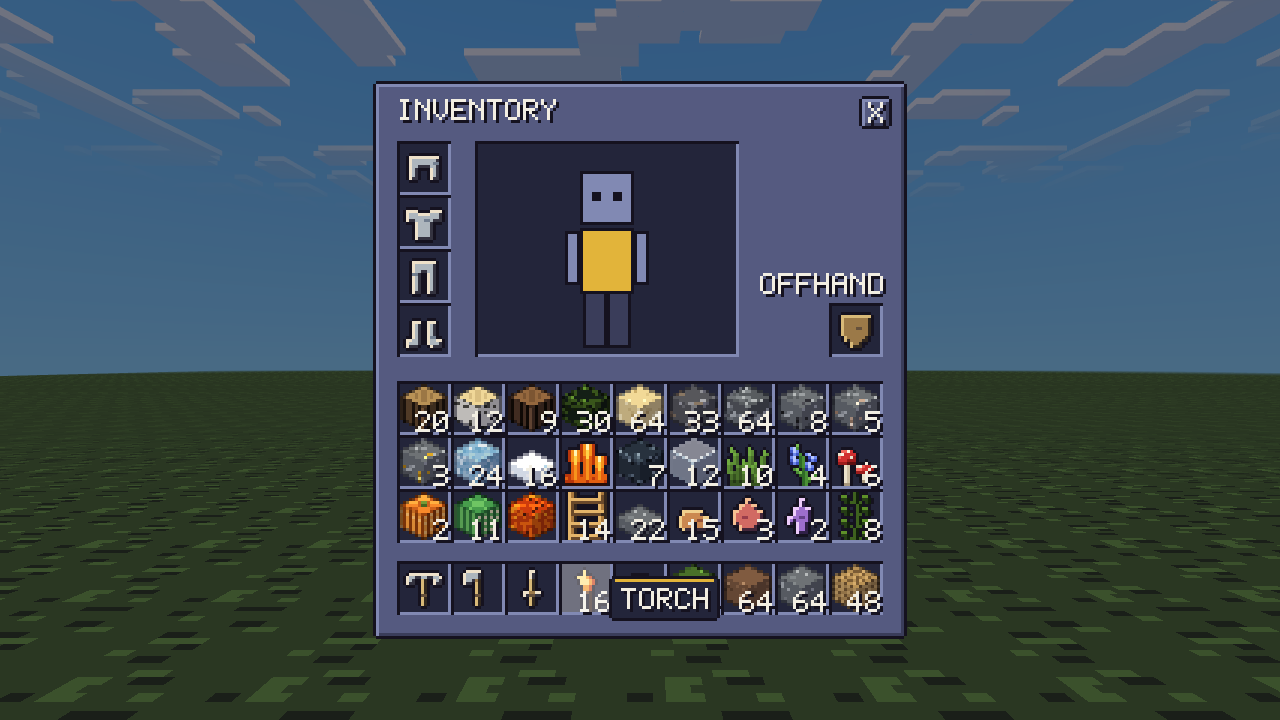
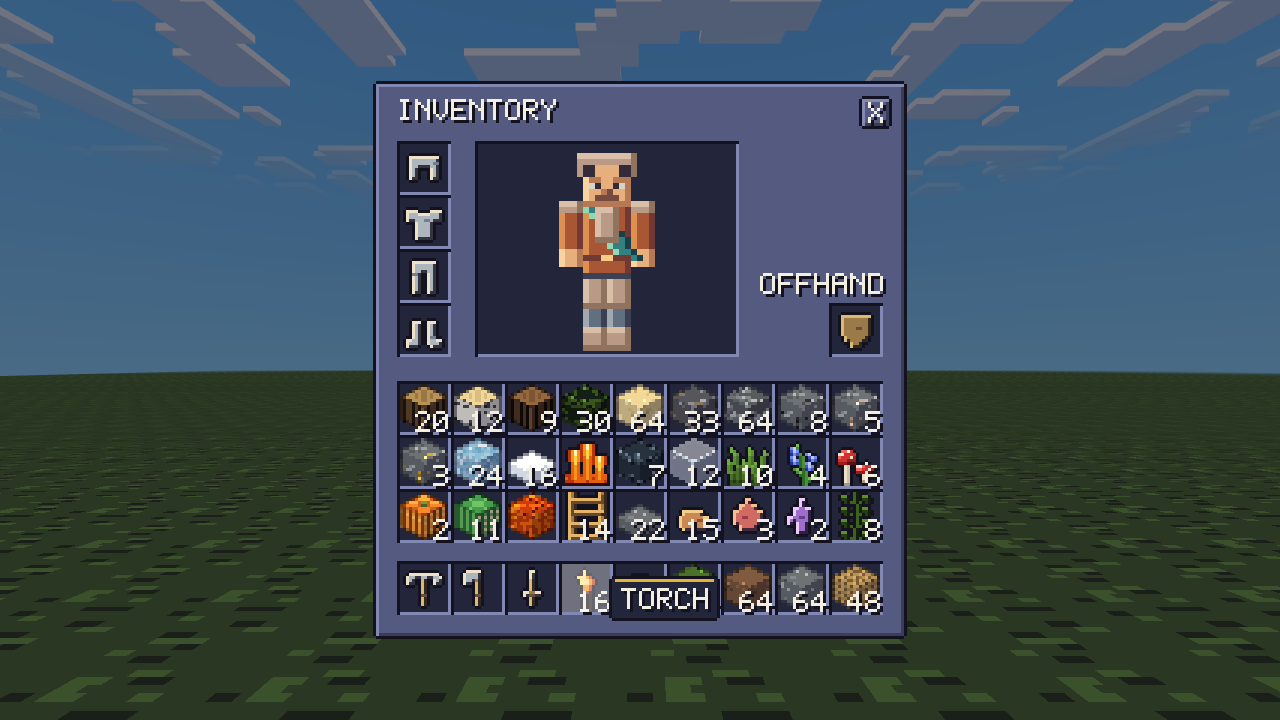
M09b: rework inventory figure with player palettes, face and worn armor
Claude-Session: https://claude.ai/code/session_01HomrBqg9TBAxWGTi8WLfMd

Changed region(s): [[0.4375, 0.2139, 0.5312, 0.4889]]

diff --git a/src/ui/preview-figure.ts b/src/ui/preview-figure.ts
@@ -1,0 +1,152 @@
+import type { Inventory } from '../gameplay/inventory';
+import { PAL_PLAYER_COAT, PAL_PLAYER_HEAD, PAL_PLAYER_LEG } from '../render/textures/player';
+import type { RGBA } from '../render/textures/noise';
+import { PREVIEW_BOX } from './inventory-layout';
+import { fillRect } from './ui-kit';
+
+/** One figure pixel is this many UI pixels, so the face keeps its detail at every integer UI scale. */
+const UNIT = 2;
+
+const css = (c: RGBA): string => `rgb(${c[0]},${c[1]},${c[2]})`;
+const HEAD = PAL_PLAYER_HEAD.map(css);
+const COAT = PAL_PLAYER_COAT.map(css);
+const LEG = PAL_PLAYER_LEG.map(css);
+/** Eye whites reuse the pale end of the trouser ramp. */
+const WHITE = LEG[4]!;
+
+/** Armor ramps (dark, mid, light) taken from the ART.md copper and iron ramps. */
+const ARMOR_RAMPS: Record<string, [string, string, string]> = {
+  copper: ['#8a4b2a', '#b4683a', '#d8874a'],
+  iron: ['#8f735f', '#b89a86', '#d9bea8'],
+};
+/** Every color the figure may draw: the player ramps plus the armor ramps. */
+export const FIGURE_COLORS: ReadonlySet<string> = new Set([
+  ...HEAD,
+  ...COAT,
+  ...LEG,
+  ...Object.values(ARMOR_RAMPS).flat(),
+]);
+const ARMOR_SLOTS = { head: 36, chest: 37, legs: 38, feet: 39 } as const;
+
+function armorRamp(inventory: Inventory, slot: number): [string, string, string] | null {
+  const id = inventory.slots[slot]?.id;
+  if (!id) return null;
+  for (const [material, ramp] of Object.entries(ARMOR_RAMPS))
+    if (id.startsWith(material)) return ramp;
+  return ARMOR_RAMPS.iron!;
+}
+
+/**
+ * The player in the same palettes as the third-person model: swept dark hair, skin ramp, copper
+ * jacket with the sea-green sash, slate trousers. Light comes from the top-left, so every part has
+ * a lit left column and a darker right column. Worn armor is drawn over the matching body part.
+ */
+export function drawPreviewFigure(
+  ctx: CanvasRenderingContext2D,
+  inventory: Inventory,
+  s: number,
+): void {
+  // Origin: horizontal centre of the box, 4 UI pixels below its top edge.
+  const ox = PREVIEW_BOX.x + PREVIEW_BOX.w / 2 - 8 * UNIT;
+  const oy = PREVIEW_BOX.y + 4;
+  const px = (x: number, y: number, w: number, h: number, color: string): void =>
+    fillRect(ctx, ox + x * UNIT, oy + y * UNIT, w * UNIT, h * UNIT, color, s);
+
+  // Legs (4 wide each, 12..) with a lit left column, darker right column and dark boots.
+  for (const lx of [4, 8]) {
+    px(lx, 20, 4, 11, LEG[2]!);
+    px(lx, 20, 1, 11, LEG[3]!);
+    px(lx + 3, 20, 1, 11, LEG[1]!);
+    px(lx, 31, 4, 2, LEG[0]!);
+    px(lx, 31, 1, 1, LEG[1]!);
+  }
+  px(4, 20, 8, 1, LEG[1]!);
+
+  // Arms: sleeves in coat tones, hands in skin tones.
+  for (const ax of [0, 12]) {
+    px(ax, 8, 4, 8, COAT[2]!);
+    px(ax, 8, 1, 8, COAT[3]!);
+    px(ax + 3, 8, 1, 8, COAT[1]!);
+    px(ax, 16, 4, 3, HEAD[3]!);
+    px(ax, 16, 1, 3, HEAD[4]!);
+    px(ax + 3, 16, 1, 3, HEAD[2]!);
+  }
+
+  // Jacket with the sea-green sash running from the left shoulder to the right hip.
+  px(4, 8, 8, 12, COAT[2]!);
+  px(4, 8, 1, 12, COAT[3]!);
+  px(11, 8, 1, 12, COAT[1]!);
+  for (let i = 0; i < 10; i++) {
+    const x = 4 + Math.floor(i * 0.7);
+    px(x, 8 + i, 1, 1, COAT[7]!);
+    px(x + 1, 8 + i, 2, 1, COAT[6]!);
+    px(x + 3, 8 + i, 1, 1, COAT[5]!);
+  }
+  px(4, 17, 8, 1, COAT[1]!);
+  px(7, 17, 2, 1, COAT[4]!);
+
+  // Head: skin, hair, brows, eyes with a pupil and a highlight, nose, mouth, ear shadow.
+  px(4, 0, 8, 8, HEAD[3]!);
+  px(4, 0, 8, 1, HEAD[0]!);
+  px(4, 1, 8, 1, HEAD[0]!);
+  px(4, 2, 2, 2, HEAD[0]!);
+  px(10, 2, 2, 2, HEAD[0]!);
+  px(5, 1, 2, 1, HEAD[1]!);
+  px(4, 4, 1, 4, HEAD[4]!);
+  px(11, 4, 1, 4, HEAD[2]!);
+  px(5, 4, 2, 1, HEAD[2]!);
+  px(9, 4, 2, 1, HEAD[2]!);
+  for (const ex of [5, 9]) {
+    px(ex, 5, 2, 1, WHITE);
+    px(ex + (ex === 5 ? 1 : 0), 5, 1, 1, HEAD[0]!);
+    px(ex + (ex === 5 ? 0 : 1), 5, 1, 1, WHITE);
+  }
+  px(7, 6, 2, 1, HEAD[2]!);
+  px(8, 6, 1, 1, HEAD[1]!);
+  px(6, 7, 4, 1, HEAD[1]!);
+  px(4, 8, 8, 1, HEAD[2]!);
+
+  // Worn armor over each body part.
+  const helmet = armorRamp(inventory, ARMOR_SLOTS.head);
+  if (helmet) {
+    // A cap over the hair that leaves the whole face visible.
+    px(3, 0, 10, 2, helmet[1]);
+    px(3, 0, 10, 1, helmet[2]);
+    px(12, 0, 1, 2, helmet[0]);
+    px(3, 2, 1, 2, helmet[1]);
+    px(12, 2, 1, 2, helmet[0]);
+  }
+  const chest = armorRamp(inventory, ARMOR_SLOTS.chest);
+  if (chest) {
+    // Pauldrons on the shoulders and a breastplate that leaves the sash showing at the sides.
+    for (const ax of [0, 12]) {
+      px(ax, 8, 4, 2, chest[1]);
+      px(ax, 8, 4, 1, chest[2]);
+      px(ax + 3, 8, 1, 2, chest[0]);
+    }
+    px(6, 9, 4, 6, chest[1]);
+    px(6, 9, 4, 1, chest[2]);
+    px(6, 9, 1, 6, chest[2]);
+    px(9, 9, 1, 6, chest[0]);
+    px(6, 14, 4, 1, chest[0]);
+  }
+  const legs = armorRamp(inventory, ARMOR_SLOTS.legs);
+  if (legs) {
+    // Thigh guards.
+    for (const lx of [4, 8]) {
+      px(lx, 21, 4, 5, legs[1]);
+      px(lx, 21, 1, 5, legs[2]);
+      px(lx + 3, 21, 1, 5, legs[0]);
+      px(lx, 25, 4, 1, legs[0]);
+    }
+  }
+  const feet = armorRamp(inventory, ARMOR_SLOTS.feet);
+  if (feet) {
+    for (const lx of [4, 8]) {
+      px(lx, 29, 4, 4, feet[1]);
+      px(lx, 29, 4, 1, feet[2]);
+      px(lx + 3, 29, 1, 4, feet[0]);
+      px(lx, 32, 4, 1, feet[0]);
+    }
+  }
+}

diff --git a/src/ui/inventory-screen.ts b/src/ui/inventory-screen.ts
@@ -1,4 +1,5 @@
 import type { Inventory } from '../gameplay/inventory';
+import { drawPreviewFigure } from './preview-figure';
 import { displayName, drawText } from './pixel-font';
 import type { IconSheet } from './icons';
 import {
@@ -19,7 +20,6 @@ import {
   drawSlot,
   drawSlotHighlight,
   drawTooltip,
-  fillRect,
 } from './ui-kit';
 
 export interface InventoryView {
@@ -45,28 +45,6 @@ function drawIcon(
   if (rect) ctx.drawImage(sheet, rect.x, rect.y, 16, 16, x, y, size, size);
 }
 
-/** A blocky figure in the shared palette, standing in the preview box. */
-function drawPreviewFigure(ctx: CanvasRenderingContext2D, s: number): void {
-  const cx = PREVIEW_BOX.x + PREVIEW_BOX.w / 2;
-  const y = PREVIEW_BOX.y + 10;
-  const parts: Array<[number, number, number, number, string]> = [
-    [-9, 0, 18, 18, UI.outline],
-    [-8, 1, 16, 16, UI.light],
-    [-5, 7, 3, 3, UI.outline],
-    [2, 7, 3, 3, UI.outline],
-    [-9, 19, 18, 22, UI.outline],
-    [-8, 20, 16, 20, UI.accent],
-    [-14, 20, 5, 18, UI.outline],
-    [9, 20, 5, 18, UI.outline],
-    [-13, 21, 3, 16, UI.light],
-    [10, 21, 3, 16, UI.light],
-    [-8, 41, 16, 18, UI.outline],
-    [-7, 41, 6, 17, UI.shade],
-    [1, 41, 6, 17, UI.shade],
-  ];
-  for (const [dx, dy, w, h, color] of parts) fillRect(ctx, cx + dx, y + dy, w, h, color, s);
-}
-
 export function drawInventoryScreen(
   ctx: CanvasRenderingContext2D,
   view: InventoryView,
@@ -90,7 +68,7 @@ export function drawInventoryScreen(
   drawText(ctx, 'OFFHAND', (170 - 41) * s, 64 * s, s, UI.text, UI.outline);
   drawButton(ctx, CLOSE_BUTTON, 'X', s, view.hoverClose);
   drawInset(ctx, PREVIEW_BOX, s);
-  drawPreviewFigure(ctx, s);
+  drawPreviewFigure(ctx, inventory, s);
 
   for (let slot = 0; slot < SLOT_COUNT; slot++) {
     const [x, y] = SLOT_POSITIONS[slot]!;

diff --git a/tests/unit/m09b-ui.test.ts b/tests/unit/m09b-ui.test.ts
@@ -5,6 +5,7 @@ import { displayName, hasGlyph } from '../../src/ui/pixel-font';
 import { UI, uiScaleFor } from '../../src/ui/ui-kit';
 import { computeLayout, slotAt, PANEL_W, PANEL_H, SLOT_COUNT } from '../../src/ui/inventory-layout';
 import { drawInventoryScreen } from '../../src/ui/inventory-screen';
+import { FIGURE_COLORS } from '../../src/ui/preview-figure';
 import type { IconSheet } from '../../src/ui/icons';
 
 describe('M09b UI scale', () => {
@@ -107,7 +108,8 @@ describe('M09b pixel font and palette', () => {
       sheet,
       {} as CanvasImageSource,
     );
-    const palette = new Set<string>(Object.values(UI));
+    // The preview figure draws in the in-game player and armor palettes; everything else is UI.
+    const palette = new Set<string>([...Object.values(UI), ...FIGURE_COLORS]);
     for (const color of colors) expect(palette.has(color), color).toBe(true);
     expect(ctx.imageSmoothingEnabled).toBe(false);
     for (const r of rects) for (const v of r) expect(Number.isInteger(v)).toBe(true);

diff --git a/progress/M09b.md b/progress/M09b.md
@@ -2,7 +2,7 @@
 
 Status: verified (local); GitHub CI on the PR is the final evidence
 Depends on: M09a
-Full verify (this session, Node as installed in the container): typecheck ✓ · lint ✓ · placeholders ✓ · unit 640 passed (84 files) · e2e 87 passed (17.8 m) · console errors 0 · exit 0
+Full verify (this session, Node as installed in the container): typecheck ✓ · lint ✓ · placeholders ✓ · unit 640 passed (84 files) · e2e 87 passed (17.6 m) · console errors 0 · exit 0
 
 ## Acceptance criteria owned
 
@@ -13,10 +13,11 @@ Also covered: E/Esc open and close, input ignored while open, cursor return and 
 
 ## Screenshots (docs/screenshots/M09b/)
 
-- `m09-inventory.png`: opened and viewed. A centred blue-grey beveled panel titled INVENTORY with an X button, over the dimmed game. Left: four armor slots showing iron helmet, chestplate, leggings and boots icons. Centre: a recessed box with a simple blocky figure. Right: OFFHAND label over a slot holding a shield. Below: three rows of nine main slots and a hotbar row, all filled; cube icons show a lighter top and two differently shaded side faces (logs, sand, ores, ice, pumpkin, cactus), and plants, torch, fire and ladder appear as flat outlined sprites. Counts are white with a dark shadow in each slot's lower right. The hovered torch slot is highlighted with a TORCH tooltip. Darker textures (stone, coal) are the least legible cubes.
+- `m09-inventory.png`: opened and viewed. A centred blue-grey beveled panel titled INVENTORY with an X button, over the dimmed game. Left: four armor slots showing iron helmet, chestplate, leggings and boots icons. Centre: a dark recessed box with the player figure in the in-game player palettes: swept dark hair, a skin-tone face lit on the left and shaded on the right with two brows, white-and-pupil eyes, a darker nose and a brown mouth, a copper jacket with the sea-green sash from the left shoulder to the right hip, copper sleeves, skin hands and slate trousers. Worn iron armor shows as a cap, shoulder pauldrons, a small breastplate, thigh guards and boots, leaving the sash visible. Right: OFFHAND label over a slot holding a shield. Below: three rows of nine main slots and a hotbar row, all filled; cube icons show a lighter top and two differently shaded side faces (logs, sand, ores, ice, pumpkin, cactus), and plants, torch, fire and ladder appear as flat outlined sprites. Counts are white with a dark shadow in each slot's lower right. The hovered torch slot is highlighted with a TORCH tooltip. Darker textures (stone, coal) are the least legible cubes.
 
 ## What was built
 
+- `src/ui/preview-figure.ts`: the figure (owner-requested rework after review; `FIGURE_COLORS` lists the colors it may use, and the owner approved extending the palette test in `tests/unit/m09b-ui.test.ts` to allow them).
 - `src/ui/`: `pixel-font.ts` (5×7 bitmap font), `ui-kit.ts` (8-color palette, panels, slots, button, tooltip, integer scale), `icons.ts` (icon sheet), `inventory-layout.ts`, `inventory-screen.ts` (drawing), `ui-manager.ts` (overlay canvas, mouse and key handling, open/close, throws).
 - Debug API `src/debug/api/ui.ts`: `openScreen`, `getScreen`, `uiClickSlot`.
 - Changes to other tasks' code: `InputEngine` capture flag, `relock()` (M06); `Inventory.leftClick` swap fix and new `returnCursor()` (M09a); optional `thrown` argument on `ItemEntityManager.spawn` and `dropInventoryStack`, plus `pickupDelay` on `ItemEntity` (M07b/M09a); `main.ts` wiring; one line in `debug/api/index.ts` and three optional members in `core.ts`. No harness, test, M08b or sky/weather file was changed.
